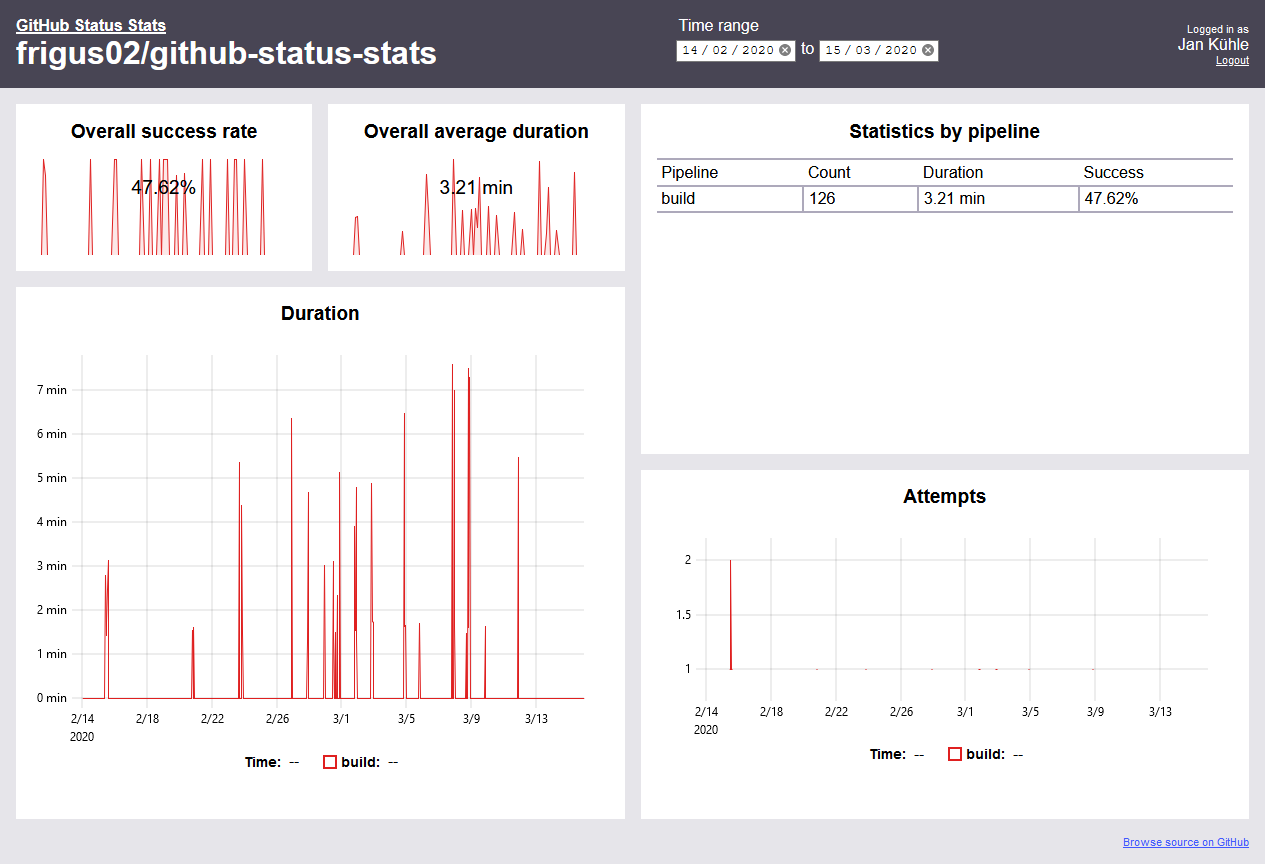
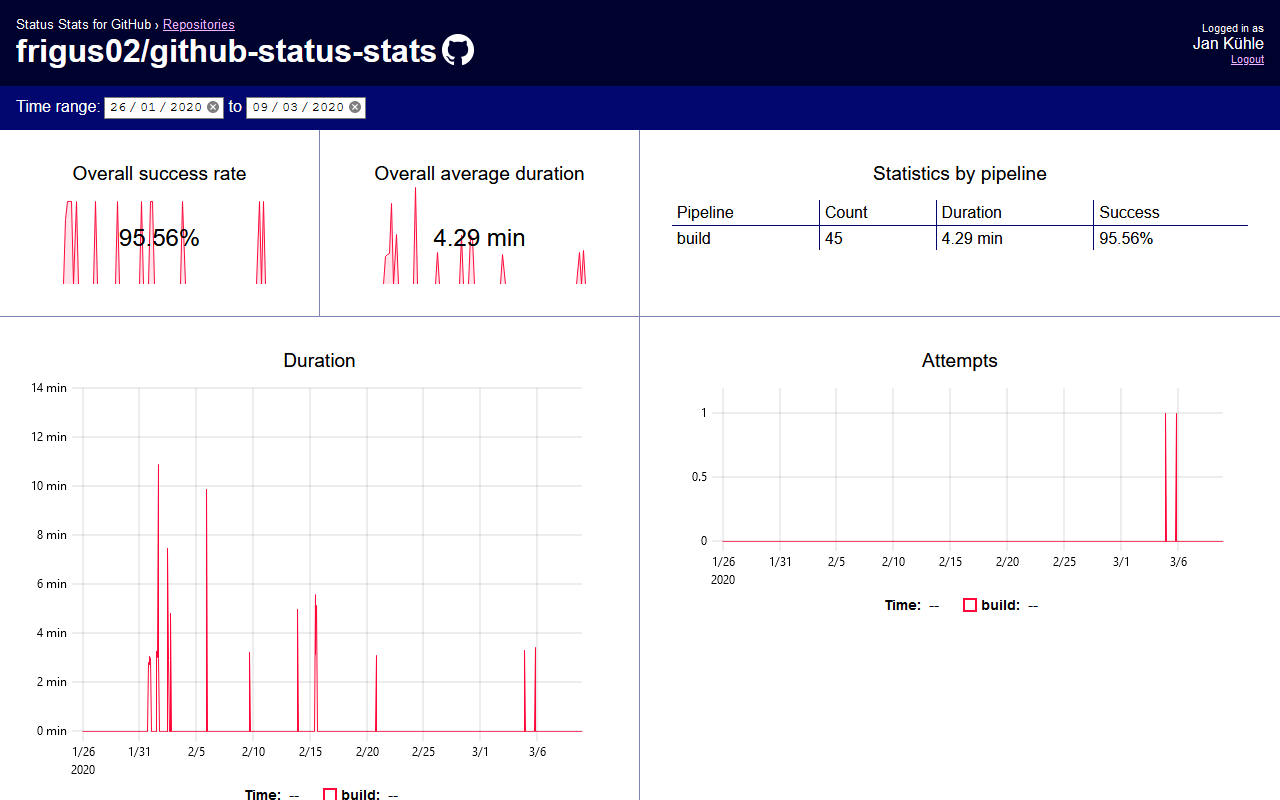
Update filter style and colors

diff --git a/crates/ghss_website/static/dashboard.css b/crates/ghss_website/static/dashboard.css
@@ -1,25 +1,48 @@
 #dashboard {
   display: grid;
-  grid-template-columns: repeat(4, calc(25% - 0.75rem));
-  grid-template-rows: repeat(4, 1fr);
-  grid-column-gap: 1rem;
-  grid-row-gap: 1rem;
+  --dashboard-columns: 2;
+  --panel-padding: 1rem;
+  grid-template-columns: repeat(var(--dashboard-columns), minmax(150px, 1fr));
 }
 
 #overall-success {
-  grid-area: 1 / 1 / 2 / 2;
+  border-right: 1px solid rgba(var(--color-light), 0.5);
 }
-#overall-duration {
-  grid-area: 1 / 2 / 2 / 3;
-}
+
 #stats-by-pipeline {
-  grid-area: 1 / 3 / 3 / 5;
+  grid-column: span 2;
+  grid-row: span 2;
+  border-top: 1px solid rgba(var(--color-light), 0.5);
 }
+
 #duration {
-  grid-area: 2 / 1 / 5 / 3;
+  grid-column: span 2;
+  grid-row: span 3;
+  border-top: 1px solid rgba(var(--color-light), 0.5);
 }
+
 #attempts {
-  grid-area: 3 / 3 / 5 / 5;
+  grid-column: span 2;
+  border-top: 1px solid rgba(var(--color-light), 0.5);
+}
+
+@media (min-width: 900px) {
+  #dashboard {
+    --dashboard-columns: 4;
+    --panel-padding: 2rem;
+  }
+
+  #overall-duration {
+    border-right: 1px solid rgba(var(--color-light), 0.5);
+  }
+
+  #stats-by-pipeline {
+    border-top: none;
+  }
+
+  #duration {
+    border-right: 1px solid rgba(var(--color-light), 0.5);
+  }
 }
 
 .repo-link {
@@ -30,8 +53,30 @@
   vertical-align: bottom;
 }
 
+.filters {
+  background-color: rgb(var(--color-light));
+  color: #fff;
+  padding: 0.7rem 1rem;
+}
+
 .timerange {
   border: none;
+  margin: 0;
+  padding: 0;
+}
+
+.timerange legend {
+  float: left;
+  padding: 0;
+}
+
+.timerange legend::after {
+  content: ":";
+  margin-right: 0.2em;
+}
+
+.timerange input {
+  vertical-align: middle;
 }
 
 .panel {
@@ -40,11 +85,12 @@
   flex-direction: column;
   align-items: center;
   background-color: #fff;
-  padding: 1rem;
+  padding: var(--panel-padding);
 }
 
 .panel h2 {
   font-size: 1.2rem;
+  font-weight: normal;
   margin: 0;
 }
 
@@ -75,21 +121,21 @@
   padding: 0.2rem 0.3rem;
 }
 
-.table-stat thead {
-  border-top: 2px solid rgb(var(--color-light));
-  border-bottom: 2px solid rgb(var(--color-light));
+.table-stat thead th {
+  border-left: 1px solid rgb(var(--color-light));
+}
+
+.table-stat thead th:first-child {
+  border-left: none;
 }
 
 .table-stat tbody td {
-  border-left: 2px solid rgb(var(--color-light));
-}
-.table-stat tbody td:first-child {
-  border-left: none;
+  border-left: 1px solid rgb(var(--color-light));
 }
 
 .table-stat tbody th,
 .table-stat tbody td {
-  border-bottom: 2px solid rgb(var(--color-light));
+  border-top: 1px solid rgb(var(--color-light));
 }
 
 .error {

diff --git a/crates/ghss_website/static/base.css b/crates/ghss_website/static/base.css
@@ -1,7 +1,7 @@
 html {
-  --color-accent: 65, 88, 255;
-  --color-dark: 72, 69, 84;
-  --color-light: 173, 169, 187;
+  --color-accent: 255, 7, 58;
+  --color-dark: 0, 2, 46;
+  --color-light: 2, 6, 111;
 }
 
 * {
@@ -11,7 +11,6 @@ html {
 body {
   padding: 0;
   margin: 0;
-  background-color: rgba(var(--color-light), 0.3);
   font-family: sans-serif;
 }
 
@@ -30,6 +29,10 @@ header h1 {
   margin: 0;
 }
 
+header .breadcrumbs {
+  font-size: smaller;
+}
+
 header .user {
   font-size: 0.7rem;
   text-align: end;
@@ -40,21 +43,19 @@ header .user__name {
 }
 
 header a {
-  display: block;
-}
-
-header a,
-header a:visited {
   color: #fff;
 }
 
-main {
-  margin: 1rem;
+header a:visited {
+  color: rgb(240, 181, 255);
 }
 
-a,
+a {
+  color: rgb(var(--color-light));
+}
+
 a:visited {
-  color: rgb(var(--color-accent));
+  color: rgb(111, 2, 99);
 }
 
 .sourcelink {

diff --git a/crates/ghss_website/static/dashboard.js b/crates/ghss_website/static/dashboard.js
@@ -1,5 +1,4 @@
-const repository = document.querySelector('script[src="/static/dashboard.js"]')
-  .dataset.repository;
+const repository = document.querySelector("#dashboard").dataset.repository;
 
 const startDateInput = document.querySelector("#startdate");
 startDateInput.valueAsNumber = Date.now() - 2592000000; // 30 days in milliseconds
@@ -154,7 +153,7 @@ const onTimeRangeChange = (cb) => {
 };
 
 const color = (index, alpha = 1) =>
-  `hsla(${index * 222.5}, 75%, 50%, ${alpha})`;
+  `hsla(${index * 222.5 + 348}, 100%, 51.4%, ${alpha})`;
 
 const throttle = (cb, limit) => {
   let wait = false;

diff --git a/crates/ghss_website/static/index.css b/crates/ghss_website/static/index.css
@@ -5,5 +5,6 @@ main {
 
 main h2 {
   font-size: 1.5rem;
+  font-weight: normal;
   margin: 0;
 }
